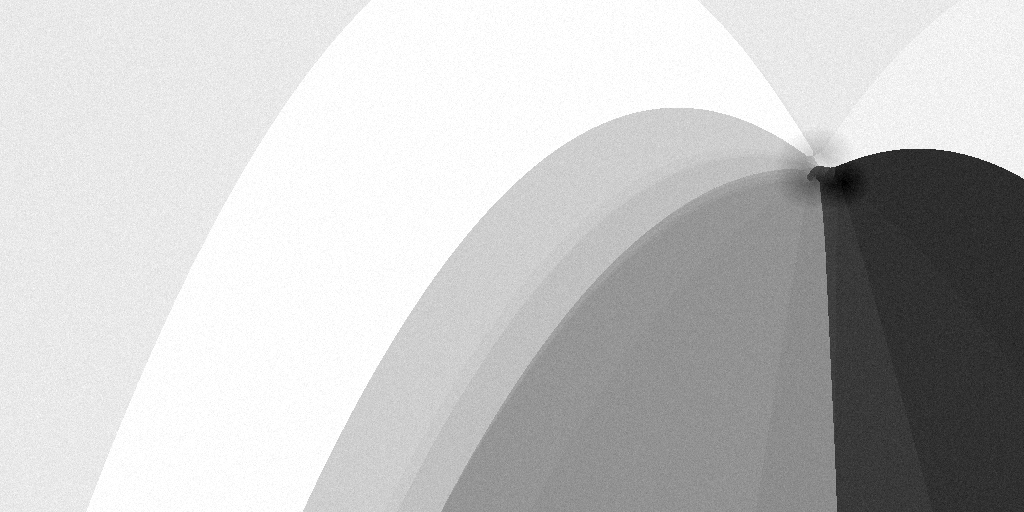
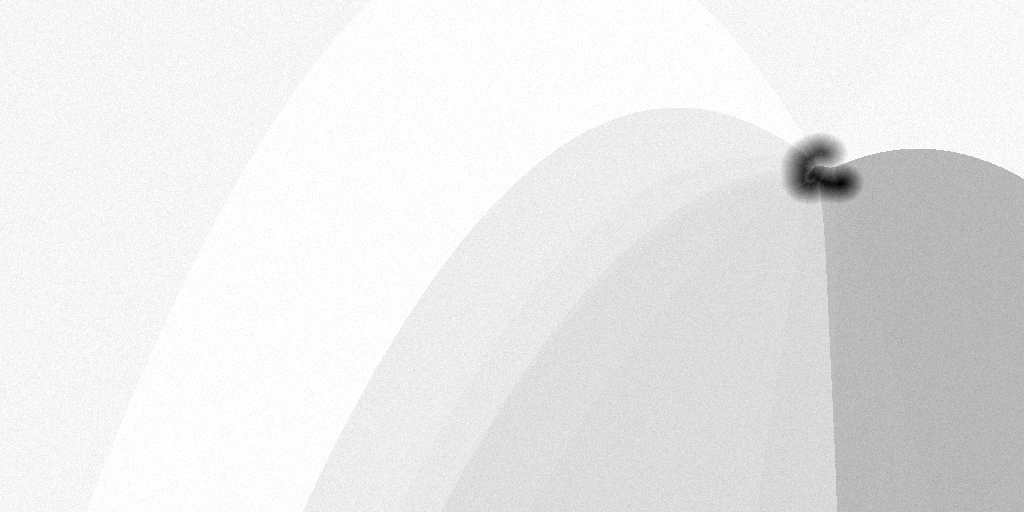
P0：点亮语义 + 距离权重重烘 ignition（波前从路线向外推）

diff --git a/src/components/EarthGlobe.vue b/src/components/EarthGlobe.vue
@@ -619,15 +619,15 @@ uniform float uBurn;`,
   float lit = (1.0 - smoothstep(uBurn - 0.06 + jitter, uBurn + 0.05 + jitter, tIgn)) * inCn * burnActive;
   // 波前：一圈亮金边，燃烧是"推过去"的，不是"整块变"
   float distToFront = abs(tIgn - uBurn + jitter);
-  float ring = (1.0 - smoothstep(0.0, 0.045, distToFront)) * inCn * burnActive;
+  float ring = (1.0 - smoothstep(0.0, 0.022, distToFront)) * smoothstep(0.35, 0.9, texture2D(uChina, vUv).r) * burnActive;
   // 细密金点，像万家灯火
   float grain = smoothstep(0.55, 1.0, texture2D(uCrust, vUv * 26.0).r);
   vec3 gold = vec3(1.0, 0.78, 0.42);
 
   // 重生：不是烧黑，而是点亮 —— 保留地表纹理，整体提亮并偏暖
-  gl_FragColor.rgb = mix(gl_FragColor.rgb, gl_FragColor.rgb * 0.9 + gold * 0.5, lit * 0.6);
-  gl_FragColor.rgb += gold * ring * 0.95;
-  gl_FragColor.rgb += vec3(1.0, 0.86, 0.62) * grain * lit * 0.3;
+  gl_FragColor.rgb = mix(gl_FragColor.rgb, gl_FragColor.rgb * 1.18 + gold * 0.12, lit * 0.42);
+  gl_FragColor.rgb += gold * ring * 0.7;
+  gl_FragColor.rgb += vec3(1.0, 0.86, 0.62) * grain * lit * 0.14;
 }
 #include <dithering_fragment>`,
     )
